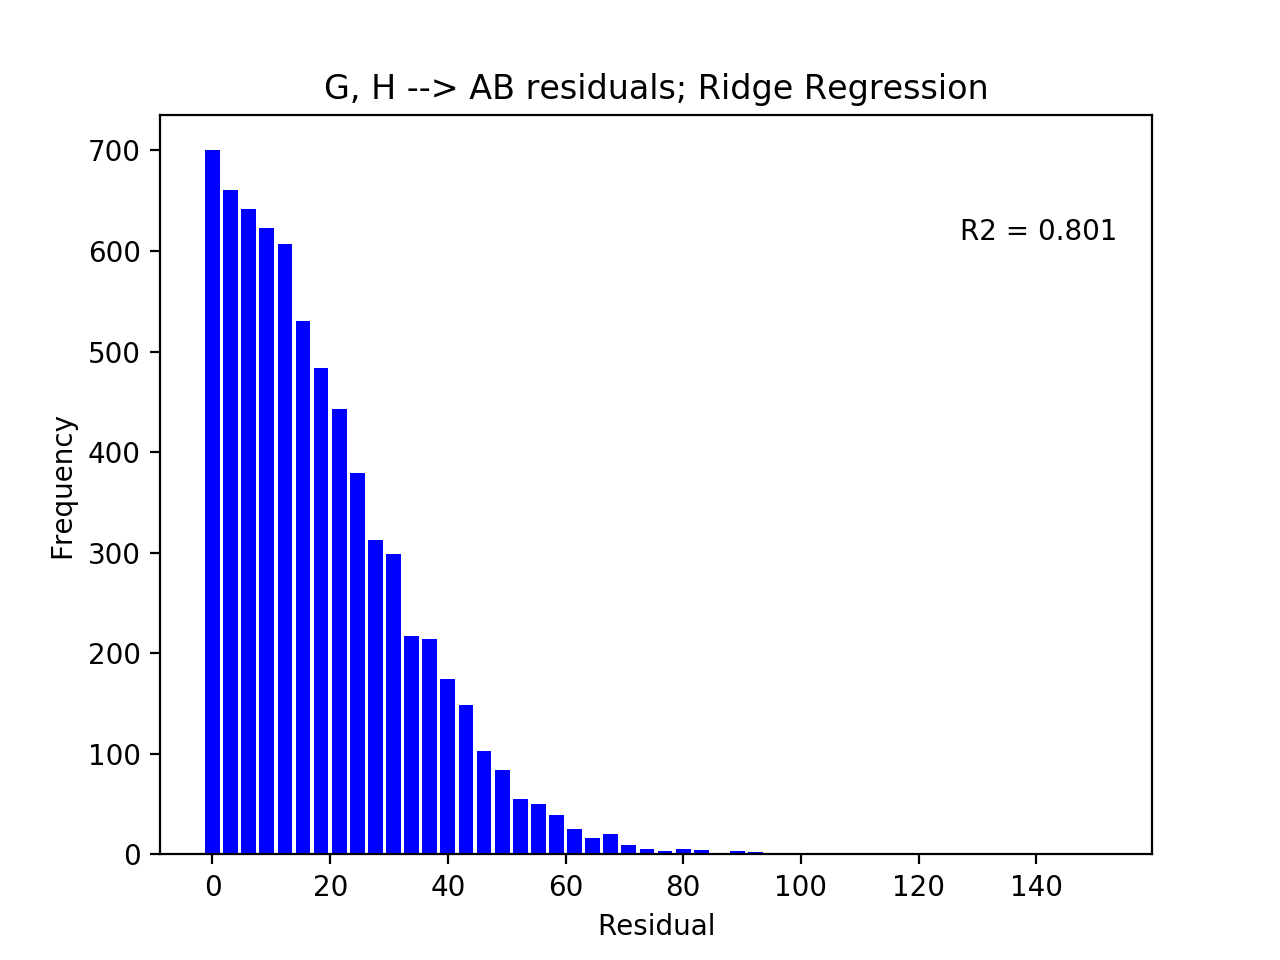
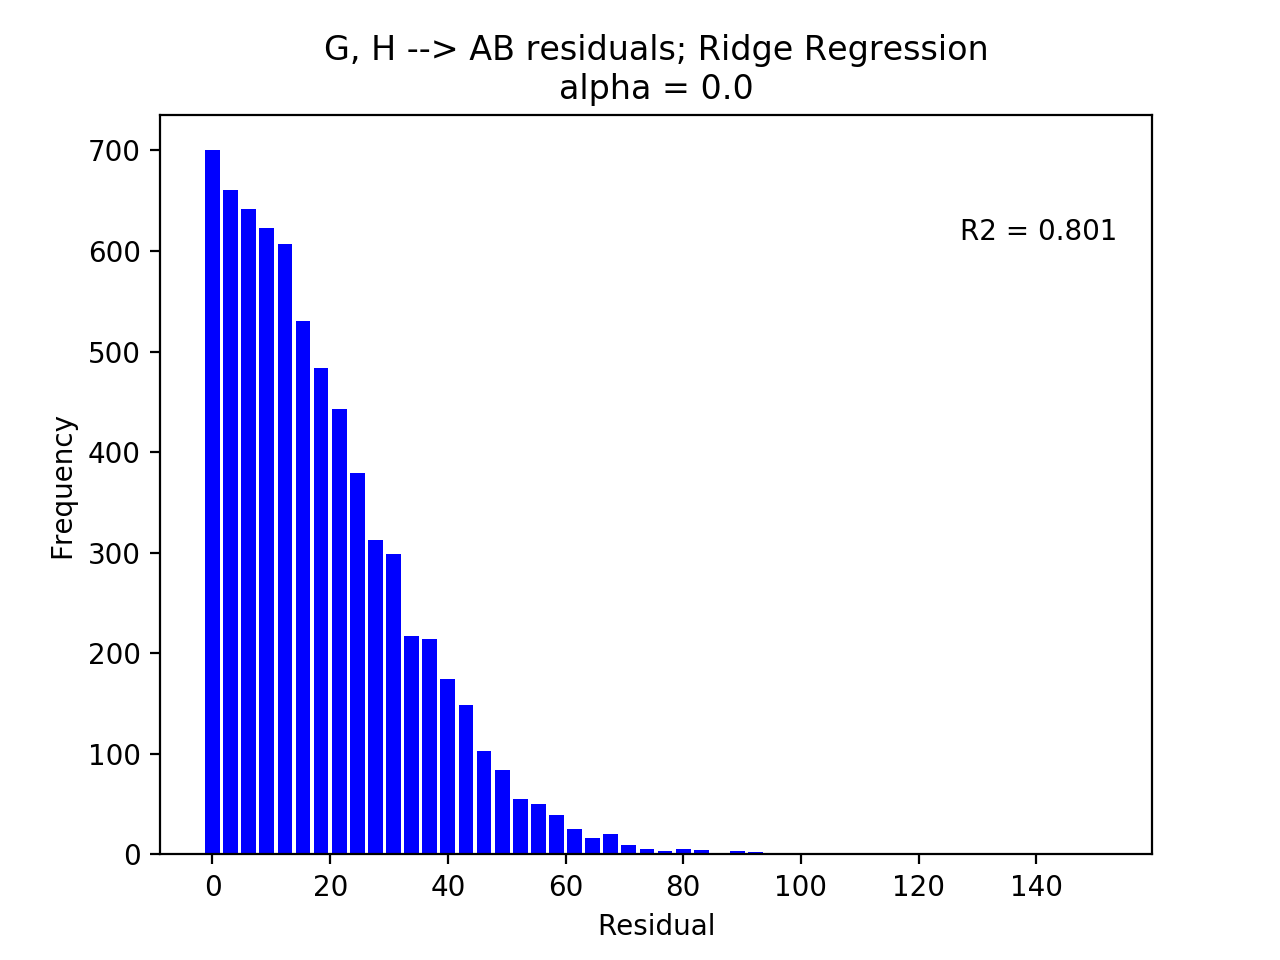
added alphas to all regreg plots

Changed region(s): [[0.3438, 0.0312, 0.7812, 0.125], [0.25, 0.0312, 0.3125, 0.125]]

diff --git a/regreg_analysis.py b/regreg_analysis.py
@@ -100,7 +100,7 @@ def srf(x, y, reg):
 
 
 # parity plots
-"""
+#"""
 lasso_ymod = f(lasso_x, lasso.x)
 ridge_ymod = f(ridge_x, ridge.x)
 elastic_ymod = f(elastic_x, elastic.x)
@@ -111,7 +111,7 @@ elastic_r = range(0, 80, 10)
 
 
 fig1, ax1 = plt.subplots()
-ax1.set_title('HR, SO --> RBI; LASSO Regression\nParity Plot')
+ax1.set_title('HR, SO --> RBI; LASSO Regression\nParity Plot (alpha = %.1f)' % lasso.alpha)
 ax1.plot(lasso_ymod, lasso_y, '.', color='g')
 ax1.plot(lasso_r, lasso_r, color='black')
 ax1.set_xlabel('Model RBI')
@@ -121,7 +121,7 @@ ax1.set_yticks(lasso_r)
 fig1.text(0.25, 0.75, 'R2 = %.3f' % lasso.r_sq)
 
 fig2, ax2 = plt.subplots()
-ax2.set_title('G, H --> AB; Ridge Regression\nParity Plot')
+ax2.set_title('G, H --> AB; Ridge Regression\nParity Plot (alpha = %.1f)' % ridge.alpha)
 ax2.plot(ridge_ymod, ridge_y, '.', color='b')
 ax2.plot(ridge_r, ridge_r, color='black')
 ax2.set_xlabel('Model AB')
@@ -131,7 +131,7 @@ ax2.set_yticks(ridge_r)
 fig2.text(0.25, 0.75, 'R2 = %.3f' % ridge.r_sq)
 
 fig3, ax3 = plt.subplots()
-ax3.set_title('H, RBI --> HR; Elastic Net Regression\nParity Plot')
+ax3.set_title('H, RBI --> HR; Elastic Net Regression\nParity Plot (alpha = %.1f)' % elastic.alpha)
 ax3.plot(elastic_ymod, elastic_y, '.', color='c')
 ax3.plot(elastic_r, elastic_r, color='black')
 ax3.set_xlabel('Model HR')
@@ -140,11 +140,11 @@ ax3.set_xticks(elastic_r)
 ax3.set_yticks(elastic_r)
 fig3.text(0.25, 0.75, 'R2 = %.3f' % elastic.r_sq)
 
-[f.savefig('%s_Parity.png' % t, dpi=200) for f, t in zip([fig1, fig2, fig3], ['LASSO', 'Ridge', 'Elastic'])]
-"""
+[f5.savefig('%s_Parity.png' % t, dpi=200) for f5, t in zip([fig1, fig2, fig3], ['LASSO', 'Ridge', 'Elastic'])]
+#"""
 
 # residuals histograms
-"""
+#"""
 lasso_resid = abs(f(lasso_x, lasso.x) - lasso_y)
 #lasso_resid /= lasso_resid.max()
 
@@ -160,21 +160,21 @@ ridge_hist, b2 = np.histogram(ridge_resid, bins=bins)
 elastic_hist, b3 = np.histogram(elastic_resid, bins=bins)
 
 fig1, ax1 = plt.subplots()
-ax1.set_title('HR, SO --> RBI residuals; LASSO Regression')
+ax1.set_title('HR, SO --> RBI residuals; LASSO Regression\nalpha = %.1f' % lasso.alpha)
 ax1.bar(np.linspace(0, lasso_resid.max(), bins), lasso_hist, color='g', width=lasso_resid.max()/(bins+10))
 ax1.set_xlabel('Residual')
 ax1.set_ylabel('Frequency')
 fig1.text(0.75, 0.75, 'R2 = %.3f' % lasso.r_sq)
 
 fig2, ax2 = plt.subplots()
-ax2.set_title('G, H --> AB residuals; Ridge Regression')
+ax2.set_title('G, H --> AB residuals; Ridge Regression\nalpha = %.1f' % ridge.alpha)
 ax2.bar(np.linspace(0, ridge_resid.max(), bins), ridge_hist, color='b', width=ridge_resid.max()/(bins+10))
 ax2.set_xlabel('Residual')
 ax2.set_ylabel('Frequency')
 fig2.text(0.75, 0.75, 'R2 = %.3f' % ridge.r_sq)
 
 fig3, ax3 = plt.subplots()
-ax3.set_title('H, RBI --> HR residuals; Elastic Net Regression')
+ax3.set_title('H, RBI --> HR residuals; Elastic Net Regression\nalpha = %.1f' % elastic.alpha)
 ax3.bar(np.linspace(0, elastic_resid.max(), bins), elastic_hist, color='c', width=elastic_resid.max()/(bins+10))
 ax3.set_xlabel('Residual')
 ax3.set_ylabel('Frequency')
@@ -183,7 +183,7 @@ fig3.text(0.75, 0.75, 'R2 = %.3f' % elastic.r_sq)
 fig1.savefig('LASSO_Resids.png', dpi=200)
 fig2.savefig('Ridge_Resids.png', dpi=200)
 fig3.savefig('Elastic_Resids.png', dpi=200)
-"""
+#"""
 
 
 if 0:
